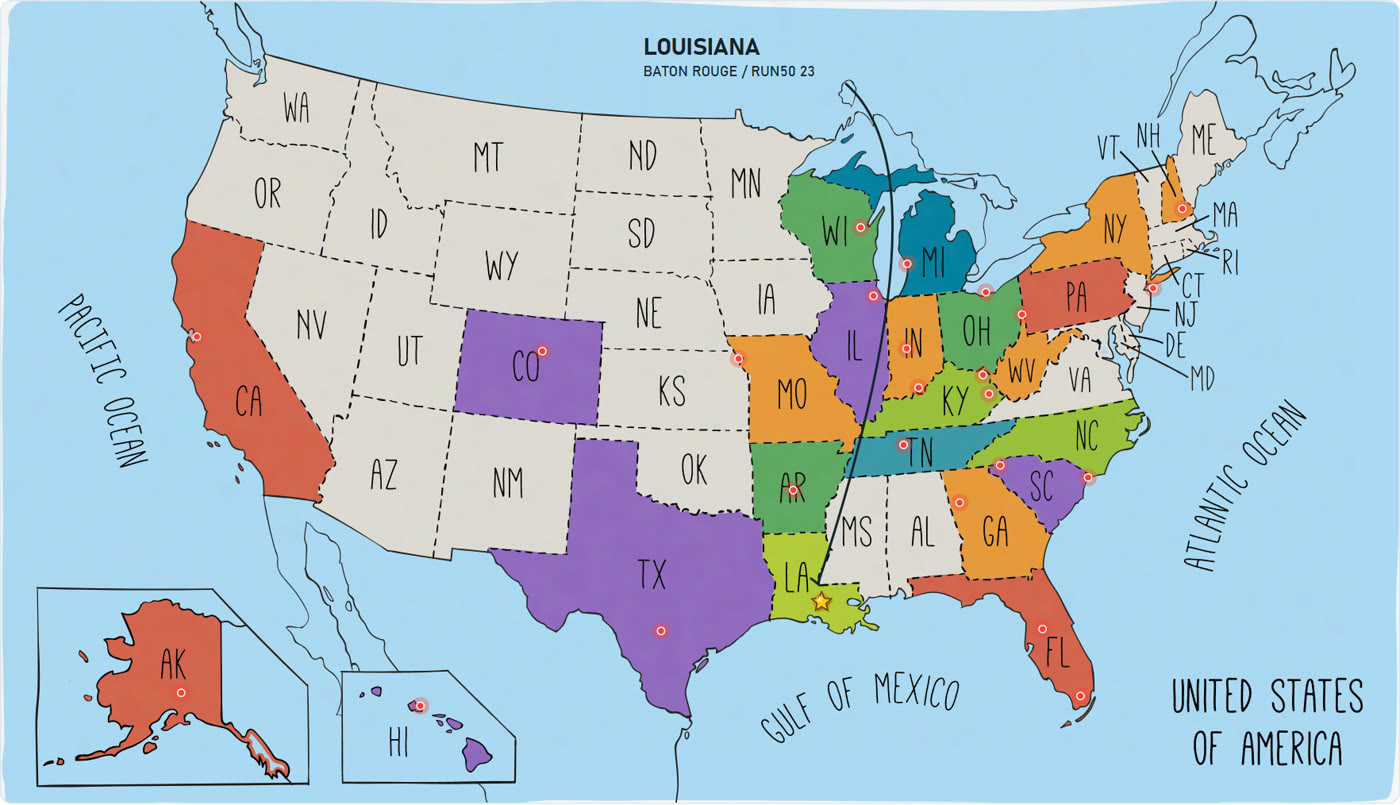
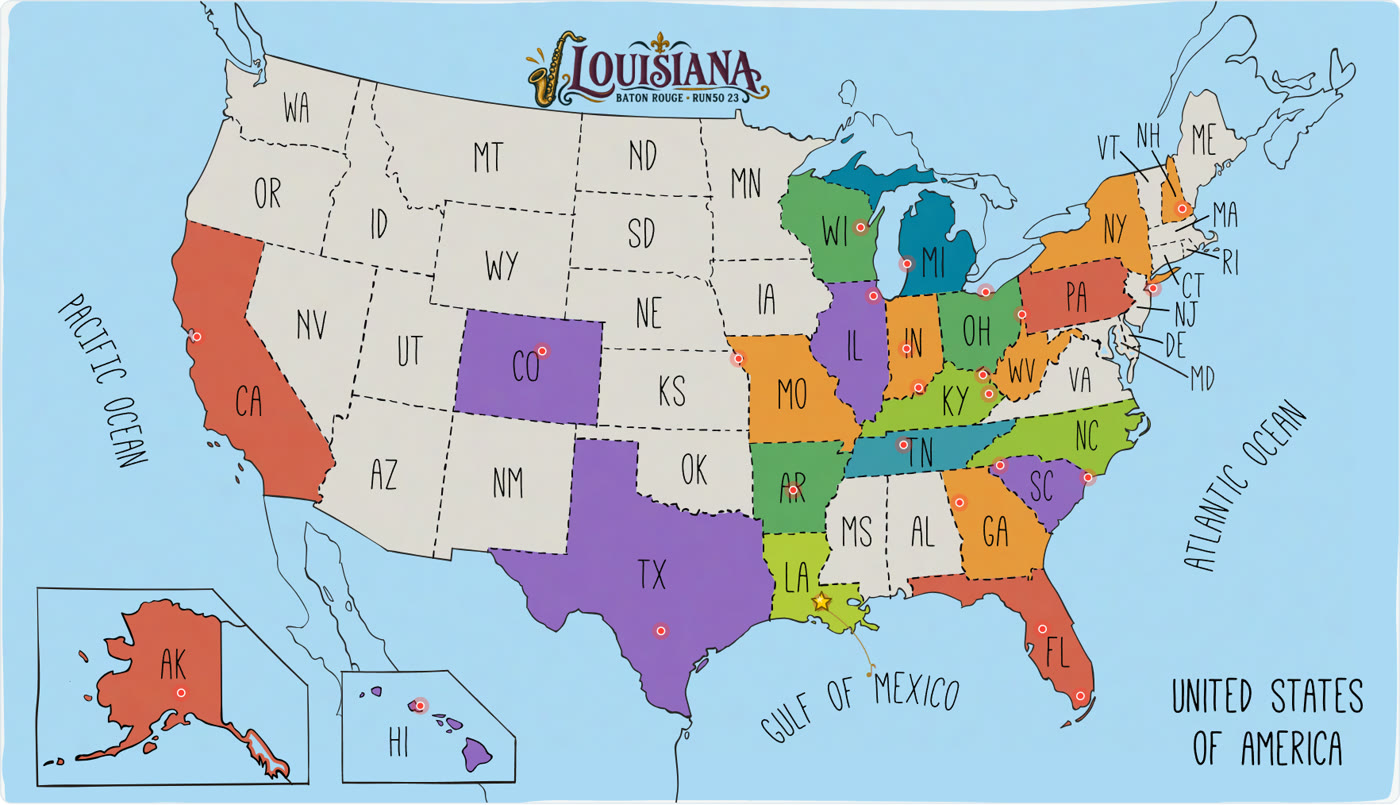
Replace Louisiana map leader with jazz-inspired imagegen callout

Changed region(s): [[0.3686, 0.0311, 0.5836, 0.1553]]

diff --git a/run50/wechat/louisiana-marathon-editorial.html b/run50/wechat/louisiana-marathon-editorial.html
@@ -20,7 +20,7 @@ main{padding-left:20px;padding-right:20px}.cover{margin-left:0;margin-right:0}.i
 <picture class="brand-intro"><source media="(prefers-reduced-motion: reduce)" srcset="../../assets/run50-robot-intro-compact-still.png"><img src="../../assets/run50-robot-intro-compact.gif" alt="Run50 机器人片头" width="224" height="300"></picture>
 <figure class="cover"><picture><source media="(prefers-reduced-motion: reduce)" srcset="../stories/chinese/Run50-Louisiana-Marathon-clean_files/img-042.webp"><img src="../../assets/louisiana-wechat-hero.gif?v=complete-100" alt="路易斯安那：比赛、合影与巴吞鲁日" width="900" height="820"></picture><figcaption class="hero-credit">比赛照 / 赛事摄影 · 合影与奖牌署名见正文</figcaption></figure>
 <div class="down" aria-hidden="true">⌄<br>⌄<br>⌄</div><section class="intro"><p>新年第一跑，从转机到新奥尔良，再开进巴吞鲁日，把南方湿地、LSU 紫金色和 Finish Fest 串在一起。</p></section>
-<figure style="margin:32px 0 36px"><img src="../../assets/wechat-run50-map-louisiana-23-editorial.png" alt="Run50 第23州，路易斯安那地图" loading="lazy" decoding="async" style="display:block;width:100%;height:auto"><figcaption style="margin:10px 12px 0;text-align:center;font-size:12px;line-height:1.75;color:#888;letter-spacing:.5px">第23州 · 路易斯安那，星标为巴吞鲁日｜制图 / Arsenan</figcaption></figure>
+<figure style="margin:32px 0 36px"><img src="../../assets/wechat-run50-map-louisiana-23-editorial.png?v=jazz-callout" alt="Run50 第23州，路易斯安那地图" loading="lazy" decoding="async" style="display:block;width:100%;height:auto"><figcaption style="margin:10px 12px 0;text-align:center;font-size:12px;line-height:1.75;color:#888;letter-spacing:.5px">第23州 · 路易斯安那，星标为巴吞鲁日｜制图 / Arsenan</figcaption></figure>
 <figure style="margin:32px 0 36px"><img src="../../assets/wechat-louisiana-poster.png" alt="路易斯安那马拉松海报" loading="lazy" decoding="async" style="display:block;width:100%;height:auto"><figcaption style="margin:10px 12px 0;text-align:center;font-size:12px;line-height:1.75;color:#888;letter-spacing:.5px">2025 · 巴吞鲁日 · Run50 第23州</figcaption></figure>
 <header class="chapter"><span class="chapter-number">01</span><p class="chapter-label"></p><h2>冬天，往南走</h2></header>
 <p class="prose" style="margin:0 0 22px;font-size:15px;line-height:1.95;letter-spacing:.5px;text-align:justify"><strong>2025 开年</strong>，我的体重也在老妈的“日复一日投喂”里冲上了来美以来的巅峰。爸妈回国了，我也该开始锻炼，<strong>把状态拉回来</strong>。</p>

diff --git a/run50/wechat/louisiana-marathon-modern-rail.html b/run50/wechat/louisiana-marathon-modern-rail.html
@@ -20,7 +20,7 @@ main{padding-left:20px;padding-right:20px}.cover{margin-left:0;margin-right:0}.i
 <picture class="brand-intro"><source media="(prefers-reduced-motion: reduce)" srcset="../../assets/run50-robot-intro-compact-still.png"><img src="../../assets/run50-robot-intro-compact.gif" alt="Run50 机器人片头" width="224" height="300"></picture>
 <figure class="cover"><picture><source media="(prefers-reduced-motion: reduce)" srcset="../stories/chinese/Run50-Louisiana-Marathon-clean_files/img-042.webp"><img src="../../assets/louisiana-wechat-hero.gif?v=complete-100" alt="路易斯安那：比赛、合影与巴吞鲁日" width="900" height="820"></picture><figcaption class="hero-credit">比赛照 / 赛事摄影 · 合影与奖牌署名见正文</figcaption></figure>
 <div class="down" aria-hidden="true">⌄<br>⌄<br>⌄</div><section class="intro"><p>新年第一跑，从转机到新奥尔良，再开进巴吞鲁日，把南方湿地、LSU 紫金色和 Finish Fest 串在一起。</p></section>
-<figure style="margin:32px 0 36px"><img src="../../assets/wechat-run50-map-louisiana-23-editorial.png" alt="Run50 第23州，路易斯安那地图" loading="lazy" decoding="async" style="display:block;width:100%;height:auto"><figcaption style="margin:10px 12px 0;text-align:center;font-size:12px;line-height:1.75;color:#888;letter-spacing:.5px">第23州 · 路易斯安那，星标为巴吞鲁日｜制图 / Arsenan</figcaption></figure>
+<figure style="margin:32px 0 36px"><img src="../../assets/wechat-run50-map-louisiana-23-editorial.png?v=jazz-callout" alt="Run50 第23州，路易斯安那地图" loading="lazy" decoding="async" style="display:block;width:100%;height:auto"><figcaption style="margin:10px 12px 0;text-align:center;font-size:12px;line-height:1.75;color:#888;letter-spacing:.5px">第23州 · 路易斯安那，星标为巴吞鲁日｜制图 / Arsenan</figcaption></figure>
 <figure style="margin:32px 0 36px"><img src="../../assets/wechat-louisiana-poster.png" alt="路易斯安那马拉松海报" loading="lazy" decoding="async" style="display:block;width:100%;height:auto"><figcaption style="margin:10px 12px 0;text-align:center;font-size:12px;line-height:1.75;color:#888;letter-spacing:.5px">2025 · 巴吞鲁日 · Run50 第23州</figcaption></figure>
 <header class="chapter"><span class="chapter-number">01</span><p class="chapter-label"></p><h2>冬天，往南走</h2></header>
 <p class="prose" style="margin:0 0 22px;font-size:15px;line-height:1.95;letter-spacing:.5px;text-align:justify"><strong>2025 开年</strong>，我的体重也在老妈的“日复一日投喂”里冲上了来美以来的巅峰。爸妈回国了，我也该开始锻炼，<strong>把状态拉回来</strong>。</p>

diff --git a/tools/build_wechat_louisiana_editorial.py b/tools/build_wechat_louisiana_editorial.py
@@ -12,7 +12,7 @@ def render():
  css=re.search(r'<style>(.*?)</style>',shell,re.S).group(1)
  css+='\nmain{padding-left:20px;padding-right:20px}.cover{margin-left:0;margin-right:0}.intro,.chapter{margin-left:0;margin-right:0}'
  body=[f'<header class="masthead"><h1>{escape(data["title"])}</h1><p class="byline">文字 / Arsenan</p></header>', '<picture class="brand-intro"><source media="(prefers-reduced-motion: reduce)" srcset="../../assets/run50-robot-intro-compact-still.png"><img src="../../assets/run50-robot-intro-compact.gif" alt="Run50 机器人片头" width="224" height="300"></picture>', '<figure class="cover"><picture><source media="(prefers-reduced-motion: reduce)" srcset="../stories/chinese/Run50-Louisiana-Marathon-clean_files/img-042.webp"><img src="../../assets/louisiana-wechat-hero.gif?v=complete-100" alt="路易斯安那：比赛、合影与巴吞鲁日" width="900" height="820"></picture><figcaption class="hero-credit">比赛照 / 赛事摄影 · 合影与奖牌署名见正文</figcaption></figure>', '<div class="down" aria-hidden="true">⌄<br>⌄<br>⌄</div><section class="intro"><p>新年第一跑，从转机到新奥尔良，再开进巴吞鲁日，把南方湿地、LSU 紫金色和 Finish Fest 串在一起。</p></section>']
- body.append(template.figure('../../assets/wechat-run50-map-louisiana-23-editorial.png','Run50 第23州，路易斯安那地图','第23州 · 路易斯安那，星标为巴吞鲁日｜制图 / Arsenan'))
+ body.append(template.figure('../../assets/wechat-run50-map-louisiana-23-editorial.png?v=jazz-callout','Run50 第23州，路易斯安那地图','第23州 · 路易斯安那，星标为巴吞鲁日｜制图 / Arsenan'))
  body.append(template.figure('../../assets/wechat-louisiana-poster.png','路易斯安那马拉松海报','2025 · 巴吞鲁日 · Run50 第23州'))
  n=0
  for block in data['blocks']:
